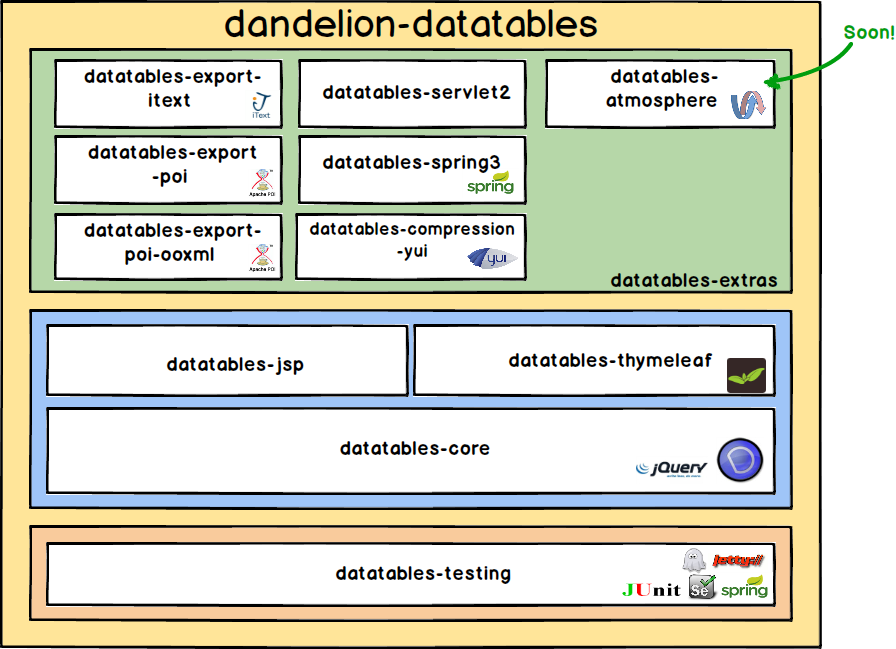
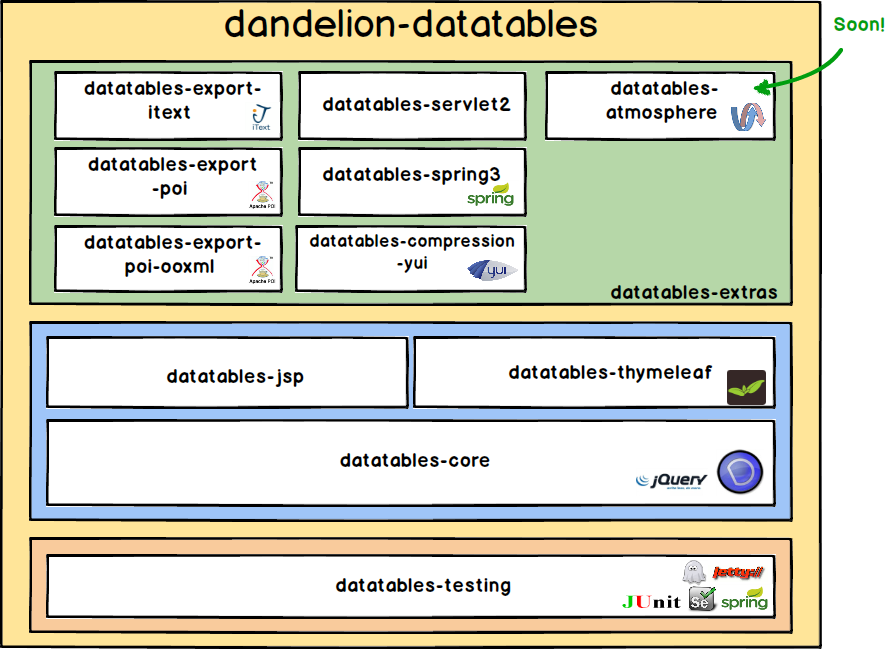
Refactored architecture index

diff --git a/datatables/architecture/index.md b/datatables/architecture/index.md
@@ -8,12 +8,11 @@ level1: architecture
 
 <br />
 You can find below a diagram that shows how **Dandelion-Datatables** is structured. 
+<br />
 
 <p class="text-center">
-<img class="blog_img" src="/assets/images/datatables/architecture.png" />
+<img class="blog_img" src="/assets/images/datatables/architecture.png" width="600px" height="500px" />
 </p>
-
-Let's describe the layers.
 
 <br />
 #### Core modules
